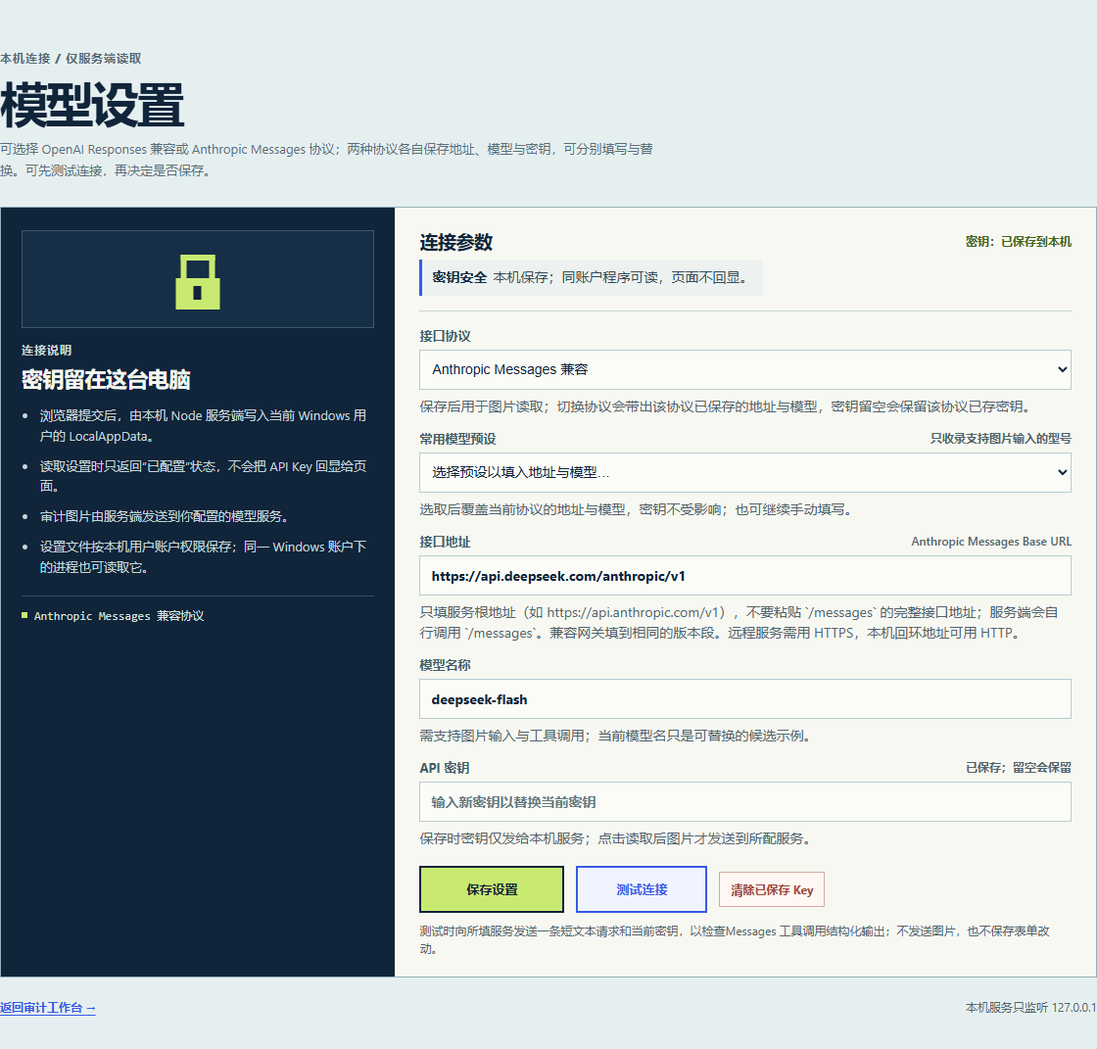
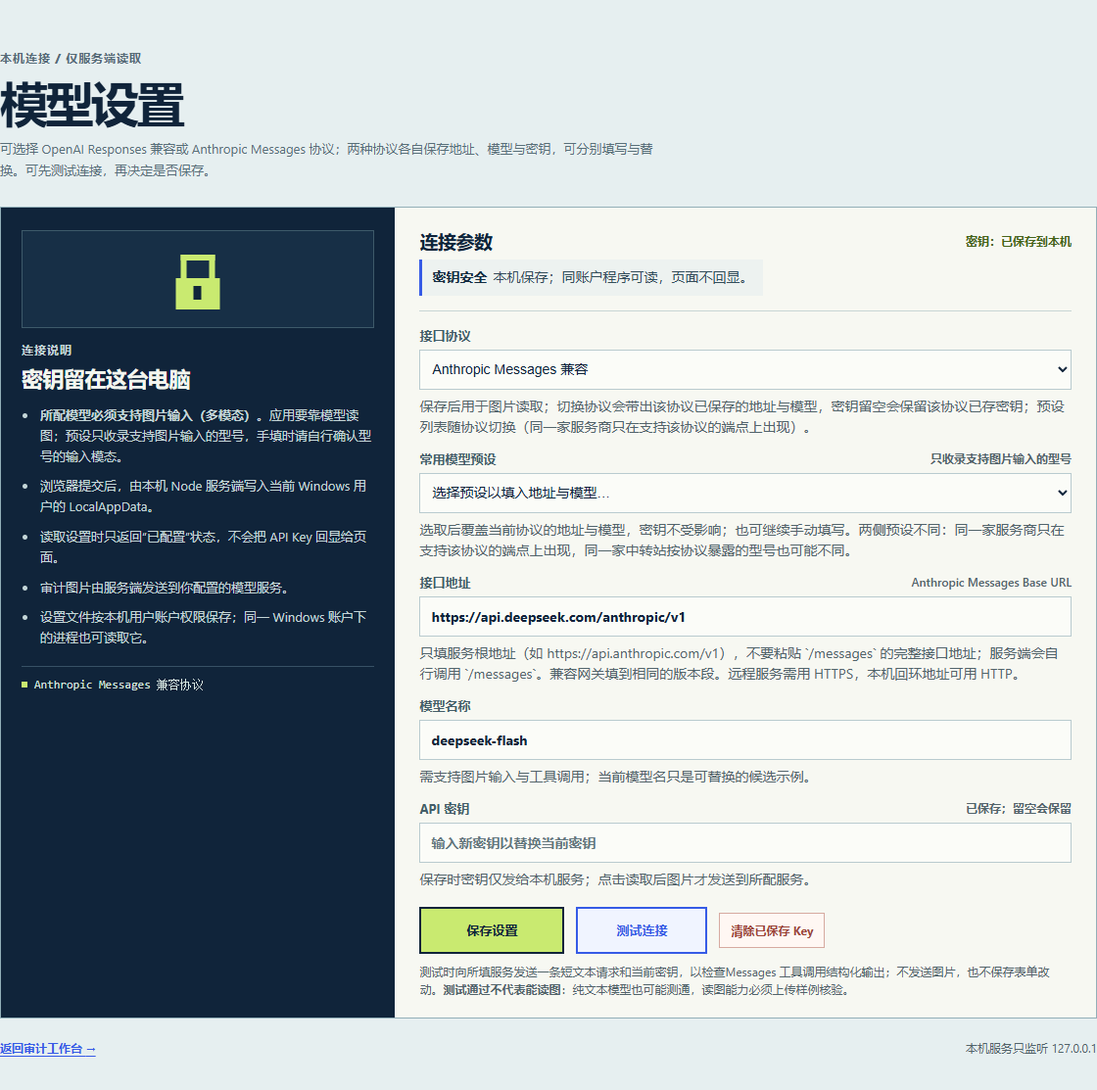
fix(settings): 说明模型必须支持图片输入、Command Code 名称与两侧预设差异
- 设置页连接说明（桌面侧栏＋窄屏移动说明）新增一条：**所配模型必须支持图片输入（多模态）**，
  预设只收录这类型号，手填请自行确认型号的输入模态
- 「测试连接」说明补一句：**测试通过不代表能读图**——它只发短文本、不发图片，纯文本模型也可能测通，
  读图能力必须上传样例核验
- 协议选择与预设字段的说明补上「预设列表随协议切换」：同一家服务商只在它支持该协议的端点上出现，
  同一家中转站按协议暴露的型号也可能不同
- 预设名称按官方写法改名：commandcode 网关 → **Command Code 网关**（依据仓库证据里引用的
  「Command Code 官方 Provider API 文档」与接口 /models 返回的 owned_by: command-code），
  并在该条 note 里写明它的 /messages 只服务自家 Claude 且受套餐限制，因此只列在 Responses 侧
- README / PLAN / PHASES 里的同一名称与「两侧为什么不同」同步；README 补「测通 ≠ 能读图」
- e2e：设置页用例补断言（Command Code 名称与「本项目已实测」标注、多模态要求、两侧差异说明、
  测通不等于能读图）
- 提交截图重放（仍 20 张，仅 settings.png 变化）

实测：npm test 338/338、npm run test:e2e 90/90（30 用例 ×3 视口）、npm run build 通过。
本次只改界面文案、预设名称与文档，未改产品逻辑、后端与既有能力声明。

diff --git a/web/pages/SettingsPage.vue b/web/pages/SettingsPage.vue
@@ -234,6 +234,7 @@ onMounted(loadSettings);
           <p class="section-kicker">连接说明</p>
           <h2>密钥留在这台电脑</h2>
           <ul class="settings-notes">
+            <li><strong>所配模型必须支持图片输入（多模态）。</strong>应用要靠模型读图；预设只收录支持图片输入的型号，手填时请自行确认型号的输入模态。</li>
             <li>浏览器提交后，由本机 Node 服务端写入当前 Windows 用户的 LocalAppData。</li>
             <li>读取设置时只返回“已配置”状态，不会把 API Key 回显给页面。</li>
             <li>审计图片由服务端发送到你配置的模型服务。</li>
@@ -261,7 +262,7 @@ onMounted(loadSettings);
                 <option value="openai-responses">OpenAI Responses 兼容</option>
                 <option value="anthropic">Anthropic Messages 兼容</option>
               </select>
-              <small>保存后用于图片读取；切换协议会带出该协议已保存的地址与模型，密钥留空会保留该协议已存密钥。</small>
+              <small>保存后用于图片读取；切换协议会带出该协议已保存的地址与模型，密钥留空会保留该协议已存密钥；预设列表随协议切换（同一家服务商只在支持该协议的端点上出现）。</small>
             </label>
 
             <label class="settings-field">
@@ -272,7 +273,7 @@ onMounted(loadSettings);
                   {{ preset.label }}{{ preset.verification === "live" ? "（本项目已实测）" : "（官方文档）" }}
                 </option>
               </select>
-              <small>{{ presetHint || "选取后覆盖当前协议的地址与模型，密钥不受影响；也可继续手动填写。" }}</small>
+              <small>{{ presetHint || "选取后覆盖当前协议的地址与模型，密钥不受影响；也可继续手动填写。两侧预设不同：同一家服务商只在支持该协议的端点上出现，同一家中转站按协议暴露的型号也可能不同。" }}</small>
             </label>
 
             <label class="settings-field">
@@ -326,12 +327,13 @@ onMounted(loadSettings);
               </button>
               <span v-else-if="clearApiKey" class="clear-key-pending">保存后清除 Key</span>
             </div>
-            <p class="settings-test-note">测试时向所填服务发送一条短文本请求和当前密钥，以检查{{ providerMeta.structuredOutputLabel }}；不发送图片，也不保存表单改动。</p>
+            <p class="settings-test-note">测试时向所填服务发送一条短文本请求和当前密钥，以检查{{ providerMeta.structuredOutputLabel }}；不发送图片，也不保存表单改动。<strong>测试通过不代表能读图</strong>：纯文本模型也可能测通，读图能力必须上传样例核验。</p>
           </form>
 
           <details class="settings-mobile-details settings-form-details">
             <summary><span>查看本机保存与图片发送范围</span><span class="disclosure-cue" aria-hidden="true"></span></summary>
             <ul class="settings-notes">
+              <li><strong>所配模型必须支持图片输入（多模态）。</strong>预设只收录支持图片输入的型号；「测试连接」不发送图片，纯文本模型也可能测通。</li>
               <li>提交后由本机 Node 服务写入当前 Windows 用户的 LocalAppData。</li>
               <li>设置读取接口只返回“已配置”状态，不会把密钥回传给页面。</li>
               <li>点击读取时，图片会发送到本页配置的模型服务。</li>

diff --git a/shared/model-presets.ts b/shared/model-presets.ts
@@ -94,11 +94,11 @@ export const MODEL_PRESETS: ModelPreset[] = [
   },
   {
     id: "commandcode-responses-deepseek",
-    label: "commandcode 网关 · DeepSeek V4.1 Flash",
+    label: "Command Code 网关 · DeepSeek V4.1 Flash",
     protocol: "openai-responses",
     baseUrl: "https://api.commandcode.ai/provider/v1",
     model: "deepseek/deepseek-v4.1-flash",
-    note: "本项目既有在线验收端点；2026-09-28 实测单张读取约 30 秒，模型偶发把百分比返回为字符串而被结构校验拒绝。",
+    note: "本项目既有在线验收端点（官方写作 Command Code，接口 /models 的 owned_by 为 command-code）；2026-09-28 实测单张读取约 30 秒，模型偶发把百分比返回为字符串而被结构校验拒绝。它的 /messages 面只服务自家 Claude 模型且受套餐限制，因此只列在 Responses 侧。",
     sourceUrl: "https://api.commandcode.ai/provider/v1/models",
     verification: "live",
   },

diff --git a/README.md b/README.md
@@ -46,7 +46,7 @@ npm run dev
 
 打开 <http://127.0.0.1:5173>。根目录脚本会同时启动 Vue/Vite 页面和 Express API；API 默认使用 `127.0.0.1:3001`。
 
-要启用新图片的视觉读取，打开页面右上角的「模型设置」，先选择「接口协议」：**OpenAI Responses 兼容**（默认）或 **Anthropic Messages 兼容**。两种协议各自保存地址、模型与密钥，切换协议会带出该协议已存配置；旧版本保存的单份设置会在读取时自动迁移为 Responses 配置。「常用模型预设」按协议列出常用多模态型号，两种协议都覆盖厂商官方与中转站：Anthropic 侧有 DeepSeek 官方 `deepseek-flash`（已实测）、阿里云百炼 `qwen3.8-flash`、智谱 `glm-5.3-flash`、OpenCode Zen、OpenRouter 与 Anthropic 官方；Responses 侧有 DeepSeek 官方、commandcode 网关、OpenCode Zen、OpenRouter 与 OpenAI 官方。选取即填入地址与型号并显示出处与验证状态；预设只收录支持图片输入的型号，避免接入纯文本模型后读图不可用。「Anthropic Messages」卡片不绑定 Claude 模型：任何实现 Messages 协议的端点都可以填（官方 Anthropic、提供 Anthropic 兼容面的第三方服务，或自建 LiteLLM 之类的代理），模型名按该端点支持的填写。Base URL 都只填接口根路径（例如以 `/v1` 结尾），应用会按协议自行调用 `/responses` 或 `/messages`；不要填入 `/chat/completions`、`/responses` 或 `/messages` 的完整接口地址，服务端会在保存时拒绝这类误填并保留原设置。可先点「测试连接」检查当前表单参数：Responses 发送一条 JSON Schema 短请求，Anthropic 发送一条强制工具调用短请求；测试不会保存设置或发送图片，图片识别仍需上传样例验证。默认填入的 `https://api.openai.com/v1` / `gpt-4.1-mini` 与 `https://api.anthropic.com/v1` / `claude-sonnet-4-6` 是示例值，可替换；团队已用第三方 Responses 兼容端点完成真实读取验收（见 [阶段一验收记录](docs/STAGE-1.md)和[阶段三复验记录](docs/evidence/stage-3-live-vision-2026-09-27.md)），该默认端点本身未做过调用。远程服务地址必须使用 HTTPS；本机回环服务可用 HTTP。设置只经本机 Node 服务端保存到 `%LOCALAPPDATA%\TuZheng\settings.json`；读取接口只返回 URL、模型名和密钥是否已配置，不回传密钥。`.env.example` 仅保留可选 API 端口。设置文件使用当前 Windows 账户的本机文件权限；同一账户下运行的其他程序也有权读取。上传的新图会发送到设置页中指定的服务；预置示例不调用云端模型。
+要启用新图片的视觉读取，打开页面右上角的「模型设置」，先选择「接口协议」：**OpenAI Responses 兼容**（默认）或 **Anthropic Messages 兼容**。两种协议各自保存地址、模型与密钥，切换协议会带出该协议已存配置；旧版本保存的单份设置会在读取时自动迁移为 Responses 配置。「常用模型预设」按协议列出常用多模态型号，两种协议都覆盖厂商官方与中转站：Anthropic 侧有 DeepSeek 官方 `deepseek-flash`（已实测）、阿里云百炼 `qwen3.8-flash`、智谱 `glm-5.3-flash`、OpenCode Zen、OpenRouter 与 Anthropic 官方；Responses 侧有 DeepSeek 官方、Command Code 网关、OpenCode Zen、OpenRouter 与 OpenAI 官方。选取即填入地址与型号并显示出处与验证状态；**预设只收录支持图片输入的型号**（应用要靠模型读图，手填请自行确认型号的输入模态），**两侧列表不同是有原因的**：同一家服务商只在它支持该协议的端点上出现（例如 Command Code 的 `/messages` 只服务自家 Claude 模型且受套餐限制，所以只列在 Responses 侧），同一家中转站按协议暴露的型号也可能不同。「Anthropic Messages」卡片不绑定 Claude 模型：任何实现 Messages 协议的端点都可以填（官方 Anthropic、提供 Anthropic 兼容面的第三方服务，或自建 LiteLLM 之类的代理），模型名按该端点支持的填写。Base URL 都只填接口根路径（例如以 `/v1` 结尾），应用会按协议自行调用 `/responses` 或 `/messages`；不要填入 `/chat/completions`、`/responses` 或 `/messages` 的完整接口地址，服务端会在保存时拒绝这类误填并保留原设置。可先点「测试连接」检查当前表单参数：Responses 发送一条 JSON Schema 短请求，Anthropic 发送一条强制工具调用短请求；测试不会保存设置或发送图片，**所以纯文本模型也可能测试通过**，图片识别仍需上传样例验证。默认填入的 `https://api.openai.com/v1` / `gpt-4.1-mini` 与 `https://api.anthropic.com/v1` / `claude-sonnet-4-6` 是示例值，可替换；团队已用第三方 Responses 兼容端点完成真实读取验收（见 [阶段一验收记录](docs/STAGE-1.md)和[阶段三复验记录](docs/evidence/stage-3-live-vision-2026-09-27.md)），该默认端点本身未做过调用。远程服务地址必须使用 HTTPS；本机回环服务可用 HTTP。设置只经本机 Node 服务端保存到 `%LOCALAPPDATA%\TuZheng\settings.json`；读取接口只返回 URL、模型名和密钥是否已配置，不回传密钥。`.env.example` 仅保留可选 API 端口。设置文件使用当前 Windows 账户的本机文件权限；同一账户下运行的其他程序也有权读取。上传的新图会发送到设置页中指定的服务；预置示例不调用云端模型。
 
 ### 在 WebStorm 里构建与运行
 
@@ -87,7 +87,7 @@ flowchart LR
 | 单图 `claims[]` 观察结构与多主张预置样例 | 已实现并本地验证 | 模型/API 契约只返回原始观察；第四个样例明确标为预置示例。单主张与多主张两条路径都可独立编辑、确定性重算，并记录本次会话的确认/更正/重算与结果，可一键重置 |
 | 服务端视觉适配器（Responses 协议）、结构化输出和观察值校验 | 已实现并已做真实读取；2026-09-28 复验适配了端点行为变化 | 2026-09-26 用三张自制 PNG 经 Responses API 返回结构化 `claims[]`，读数与期望一致（单次 3.2—4.4 秒）；2026-09-28 修复网关新增的 `verbosity` 字段拒绝与推理 token 占满输出上限两处问题，`consistent.png` 真实读取成功（29.5 秒、1 条主张 80→100）；同一端点当前存在模型保真度漂移（百分比返回字符串、多主张超出 45 秒超时），如实记录在[在线探测记录](docs/evidence/anthropic-provider-2026-09-28.md) |
 | Anthropic Messages 适配器（连接测试与图片读取） | 已实现并已做真实读取 | 协议选为 Anthropic 时，结构化请求先试「关闭思考 + 强制工具调用」，被提供方以 400 拒绝时自动回退为「不关思考 + 自动工具选择」（兼容 DeepSeek 与 GLM-5.3-Flash 两类提供方）；图片以 base64 块发送并由工具调用返回观察结构，主图与对照图共用同一适配器；2026-09-28 用 DeepSeek 官方端点实测：连接 653 毫秒、单张图约 1.1—1.4 秒，读数与预期一致，结构偶发不符时按设计拒绝、重试可恢复，详见[在线探测记录](docs/evidence/anthropic-provider-2026-09-28.md) |
-| 常用模型预设（多模态） | 已实现并本地验证 | 两种协议都覆盖厂商官方与中转站，只收录支持图片输入的型号：Anthropic 协议含 DeepSeek 官方 `deepseek-flash`（已实测）、百炼 `qwen3.8-flash`、智谱 `glm-5.3-flash`、OpenCode Zen、OpenRouter、Anthropic 官方；Responses 协议含 DeepSeek 官方、commandcode 网关、OpenCode Zen、OpenRouter、OpenAI 官方；选取即填入地址与型号并显示出处与验证状态 |
+| 常用模型预设（多模态） | 已实现并本地验证 | 两种协议都覆盖厂商官方与中转站，**只收录支持图片输入的型号**：Anthropic 协议含 DeepSeek 官方 `deepseek-flash`（已实测）、百炼 `qwen3.8-flash`、智谱 `glm-5.3-flash`、OpenCode Zen、OpenRouter、Anthropic 官方；Responses 协议含 DeepSeek 官方、Command Code 网关、OpenCode Zen、OpenRouter、OpenAI 官方；选取即填入地址与型号并显示出处与验证状态。两侧列表按「服务商只出现在它支持该协议的端点上」收录，所以不完全相同 |
 | 模型读取过程可见 | 已实现并已做真实读取 | 核对区顶部显示模型名、耗时、发送内容与大小、输入/输出 token，可展开查看未校验的模型原始返回；轨迹只在当前会话内存中，不含密钥或端点；预置示例不显示该面板 |
 | 逐条读数来源与更正状态 | 已实现并本地验证 | 每个观察点标出「预置示例值／模型读取 · 待确认／用户手动更正／图上暂不可读」，缺依据时显示「缺少图中文字依据」；更正后标签即时变化，重置后回到最初来源，三个视口有 e2e 断言 |
 | 模型设置页（双协议）与连接测试 | 已实现；Responses 已做真实连接测试，Anthropic 本地验证、在线待验证 | 协议可选 OpenAI Responses 兼容（默认）或 Anthropic Messages，两种协议各自保存地址、模型与密钥，旧版单份设置自动迁移；服务端读取接口不返回密钥。「测试连接」用未保存的表单参数按协议发送 JSON Schema 或强制工具调用短请求，不保存设置或发送图片；Responses 真实点测见[走查记录](docs/evidence/stage-5-connection-test-2026-09-27.md)，双协议在线探测见[本轮记录](docs/evidence/anthropic-provider-2026-09-28.md) |

diff --git a/docs/PHASES.md b/docs/PHASES.md
@@ -10,7 +10,7 @@
 | **1. 单图审计闭环** | 9 月 26 日—10 月 8 日 | 本地功能、真实云端视觉读取与 9/10 独立 UI 评审均已通过 | 图片／内置样例 → 模型提取 → 人工确认 → 确定性计算 → 证据卡 | 阶段 0；详见 [阶段一](STAGE-1.md) |
 | 2. 读者工作台完善 | 10 月 9 日—10 月 19 日 | 任务 01—07 已本地验收，阶段二规格全部达成 | 多个图内主张、图内证据状态、修改后重算、审计记录、整份重置与响应式体验 | 阶段 1 本地功能闭环 |
 | 3. 跨图与视觉对照 | 10 月 20 日—10 月 31 日 | 任务 01—06 已本地验收，阶段三规格达成 | 两图／图文口径确认与冲突提示；柱状图纵轴风险和对照视图 | 阶段 2 |
-| 4. 来源核验与竞赛深度 | 11 月 1 日—11 月 8 日 | 任务 01、02、03、04 已实现在线验收（2026-09-29）；05 已规划待实现，06 条件增强待资料；前置的 Anthropic Messages 协议支持已完成本地与 DeepSeek 在线验收（含多模态预设），commandcode 网关 `/messages` 因套餐限制不可用 | CPI 图文主张拆解 → 工具检索 → 推断检查 → 关键补证 → 带引用的修改建议；真实轨迹与检索对照 | 阶段 2；跨图不是来源核验的前置条件 |
+| 4. 来源核验与竞赛深度 | 11 月 1 日—11 月 8 日 | 任务 01、02、03、04 已实现在线验收（2026-09-29）；05 已规划待实现，06 条件增强待资料；前置的 Anthropic Messages 协议支持已完成本地与 DeepSeek 在线验收（含多模态预设），Command Code 网关 `/messages` 因套餐限制不可用 | CPI 图文主张拆解 → 工具检索 → 推断检查 → 关键补证 → 带引用的修改建议；真实轨迹与检索对照 | 阶段 2；跨图不是来源核验的前置条件 |
 | 5. 稳定性与提交 | 11 月 9 日—11 月 17 日 | 任务 01、02、03、06 已验收；04—05 待开始 | 固定样例评测、异常兜底、README、技术文档与 5–8 分钟演示视频 | 阶段 1–4 中决定参赛的能力 |
 
 阶段 3 与阶段 4 在阶段 2 完成后可并行；阶段三已完成，阶段四任务 01、02、03、04 已实现在线验收。2026-09-28 团队确认参赛展示优先证明 AI 技术深度，阶段四优先完成一条可复核的公开来源核验路径；手填／CSV 和更广的图表类型排在该路径之后。每阶段结束前先实测，再把表中状态改为「已验收」并附证据。
@@ -172,8 +172,8 @@
 
 **阶段四前置（2026-09-28）：Anthropic Messages 协议支持。**为在阶段四的工具调用上有第二种协议可选、避免被单一提供方锁住，设置页新增「接口协议」选择：OpenAI Responses 兼容（默认，原有行为不变）与 Anthropic Messages（`/messages`、强制工具调用结构化输出）。两种协议各自保存地址、模型与密钥，旧版单份设置文件读取时自动迁移；连接测试与图片读取都按所选协议执行。规格与任务见 [`.scratch/anthropic-model-provider/`](../.scratch/anthropic-model-provider/spec.md)。
 
-- **任务 01—03 验收（2026-09-28）：**协议选择、按协议保存与连接测试、Anthropic 图片读取、主流模型预设全部完成；`npm test` 121/121、`npm run test:e2e` 51/51（320／390／1280px）、`npm run build` 通过。在线部分：DeepSeek 官方 Anthropic 端点 `https://api.deepseek.com/anthropic/v1` + `deepseek-flash` 实测通过——连接测试 653 毫秒，`conflict.png` 约 1.1 秒读取「40%／80→100」，`consistent.png` 首次结构不符被拒、重试成功读取「25%／80→100」；过程中修复兼容问题（DeepSeek 思考模式拒绝强制工具调用；GLM-5.3-Flash 思考不可关闭且不支持强制选择——结构化请求改为两段式：先「关闭思考 + 强制工具调用」，被 400 拒绝时回退「不关思考 + 自动工具选择」）。commandcode 网关 `/messages` 因套餐限制仍不可用（仅 Claude），如实保留记录。
-- **任务 03（主流模型预设）：**两种协议都覆盖厂商官方与中转站，只收录支持图片输入的型号——Anthropic 协议：DeepSeek 官方 `deepseek-flash`（已实测）、阿里云百炼 `https://dashscope.aliyuncs.com/apps/anthropic/v1` + `qwen3.8-flash`、智谱开放平台 `https://open.bigmodel.cn/api/anthropic/v1` + `glm-5.3-flash`、OpenCode Zen、OpenRouter、Anthropic 官方；Responses 协议：DeepSeek 官方 `https://api.deepseek.com/v1`、commandcode 网关、OpenCode Zen、OpenRouter、OpenAI 官方。每条附出处链接与验证状态。
+- **任务 01—03 验收（2026-09-28）：**协议选择、按协议保存与连接测试、Anthropic 图片读取、主流模型预设全部完成；`npm test` 121/121、`npm run test:e2e` 51/51（320／390／1280px）、`npm run build` 通过。在线部分：DeepSeek 官方 Anthropic 端点 `https://api.deepseek.com/anthropic/v1` + `deepseek-flash` 实测通过——连接测试 653 毫秒，`conflict.png` 约 1.1 秒读取「40%／80→100」，`consistent.png` 首次结构不符被拒、重试成功读取「25%／80→100」；过程中修复兼容问题（DeepSeek 思考模式拒绝强制工具调用；GLM-5.3-Flash 思考不可关闭且不支持强制选择——结构化请求改为两段式：先「关闭思考 + 强制工具调用」，被 400 拒绝时回退「不关思考 + 自动工具选择」）。Command Code 网关 `/messages` 因套餐限制仍不可用（仅 Claude），如实保留记录。
+- **任务 03（主流模型预设）：**两种协议都覆盖厂商官方与中转站，只收录支持图片输入的型号——Anthropic 协议：DeepSeek 官方 `deepseek-flash`（已实测）、阿里云百炼 `https://dashscope.aliyuncs.com/apps/anthropic/v1` + `qwen3.8-flash`、智谱开放平台 `https://open.bigmodel.cn/api/anthropic/v1` + `glm-5.3-flash`、OpenCode Zen、OpenRouter、Anthropic 官方；Responses 协议：DeepSeek 官方 `https://api.deepseek.com/v1`、Command Code 网关、OpenCode Zen、OpenRouter、OpenAI 官方。每条附出处链接与验证状态。
 - **附带修复（Responses 在线路径，非新增能力）：**移除被网关以 HTTP 400 拒绝的 `text.verbosity`；连接测试输出上限由 64 调整为 512（原值被推理 token 占满导致空输出）。修复后真实连接测试成功（3.5 秒），`consistent.png` 真实读取成功（29.5 秒、1 条主张 80→100）。`conflict.png` 连续两次因模型把百分比返回为字符串而被结构校验拒绝，`multi-claims.png` 超出 45 秒超时——模型行为漂移如实记录，未做数值猜测。详见[在线探测记录](evidence/anthropic-provider-2026-09-28.md)。
 
 ### 阶段 5：稳定性与提交

diff --git a/PLAN.md b/PLAN.md
@@ -150,7 +150,7 @@ flowchart LR
 
 ## 11. 当前尚未锁死的决定
 
-1. **云模型供应商**：阶段一已实现 OpenAI Responses API 候选适配器，且设置页允许替换兼容 Base URL 和模型名；**2026-09-26 已用同一组三张自制截图完成真实云端读取验收**（第三方 Responses 兼容端点，模型 `deepseek/deepseek-v4.1-flash`，读数与独立期望结果一致，单次 3.2—4.4 秒）。供应商可行性闸门据此关闭，但成本、其他图表类型的提取准确率与延迟分布仍未评估，更换端点或模型时需按 [阶段一](docs/STAGE-1.md) 的复验步骤重跑。**2026-09-28 更新：**设置页新增 Anthropic Messages 协议选择与「常用模型预设」（只收录支持图片输入的型号），两种协议各自保存地址、模型与密钥。**DeepSeek 官方 Anthropic 端点已实测通过**：`https://api.deepseek.com/anthropic/v1` + `deepseek-flash` 连接 644 毫秒、单张图约 1.2—1.3 秒且读数与预期一致（比 commandcode 网关快约 20 倍），过程中修复了「思考模式拒绝强制工具调用」的兼容问题（应用改用显式关闭思考）。commandcode 网关 `/messages` 仅服务 Claude 且受套餐限制，非 Claude 模型仍走其 Responses 面。同日复验还发现该网关行为漂移：拒绝 `text.verbosity` 字段、推理 token 占满连接测试的 64 输出上限（均已修复），`conflict.png` 因模型把百分比返回为字符串被结构校验拒绝；旧端点的 3.2—4.4 秒数据不能沿用，演示与评测前需重新实测，详见[在线探测记录](docs/evidence/anthropic-provider-2026-09-28.md)。
+1. **云模型供应商**：阶段一已实现 OpenAI Responses API 候选适配器，且设置页允许替换兼容 Base URL 和模型名；**2026-09-26 已用同一组三张自制截图完成真实云端读取验收**（第三方 Responses 兼容端点，模型 `deepseek/deepseek-v4.1-flash`，读数与独立期望结果一致，单次 3.2—4.4 秒）。供应商可行性闸门据此关闭，但成本、其他图表类型的提取准确率与延迟分布仍未评估，更换端点或模型时需按 [阶段一](docs/STAGE-1.md) 的复验步骤重跑。**2026-09-28 更新：**设置页新增 Anthropic Messages 协议选择与「常用模型预设」（只收录支持图片输入的型号），两种协议各自保存地址、模型与密钥。**DeepSeek 官方 Anthropic 端点已实测通过**：`https://api.deepseek.com/anthropic/v1` + `deepseek-flash` 连接 644 毫秒、单张图约 1.2—1.3 秒且读数与预期一致（比 Command Code 网关快约 20 倍），过程中修复了「思考模式拒绝强制工具调用」的兼容问题（应用改用显式关闭思考）。Command Code 网关 `/messages` 仅服务 Claude 且受套餐限制，非 Claude 模型仍走其 Responses 面。同日复验还发现该网关行为漂移：拒绝 `text.verbosity` 字段、推理 token 占满连接测试的 64 输出上限（均已修复），`conflict.png` 因模型把百分比返回为字符串被结构校验拒绝；旧端点的 3.2—4.4 秒数据不能沿用，演示与评测前需重新实测，详见[在线探测记录](docs/evidence/anthropic-provider-2026-09-28.md)。
 2. **资料来源**：参赛完整版本只选择可公开使用、可标注出处的少量指标说明；不依赖外部实时接口。若找不到与样例真正相关的资料，调整样例而非伪造引用。
 3. **精确定位能力**：首版通过用户裁剪和文本引用定位；自动图像坐标框选只有在验证稳定后才加入。
 
